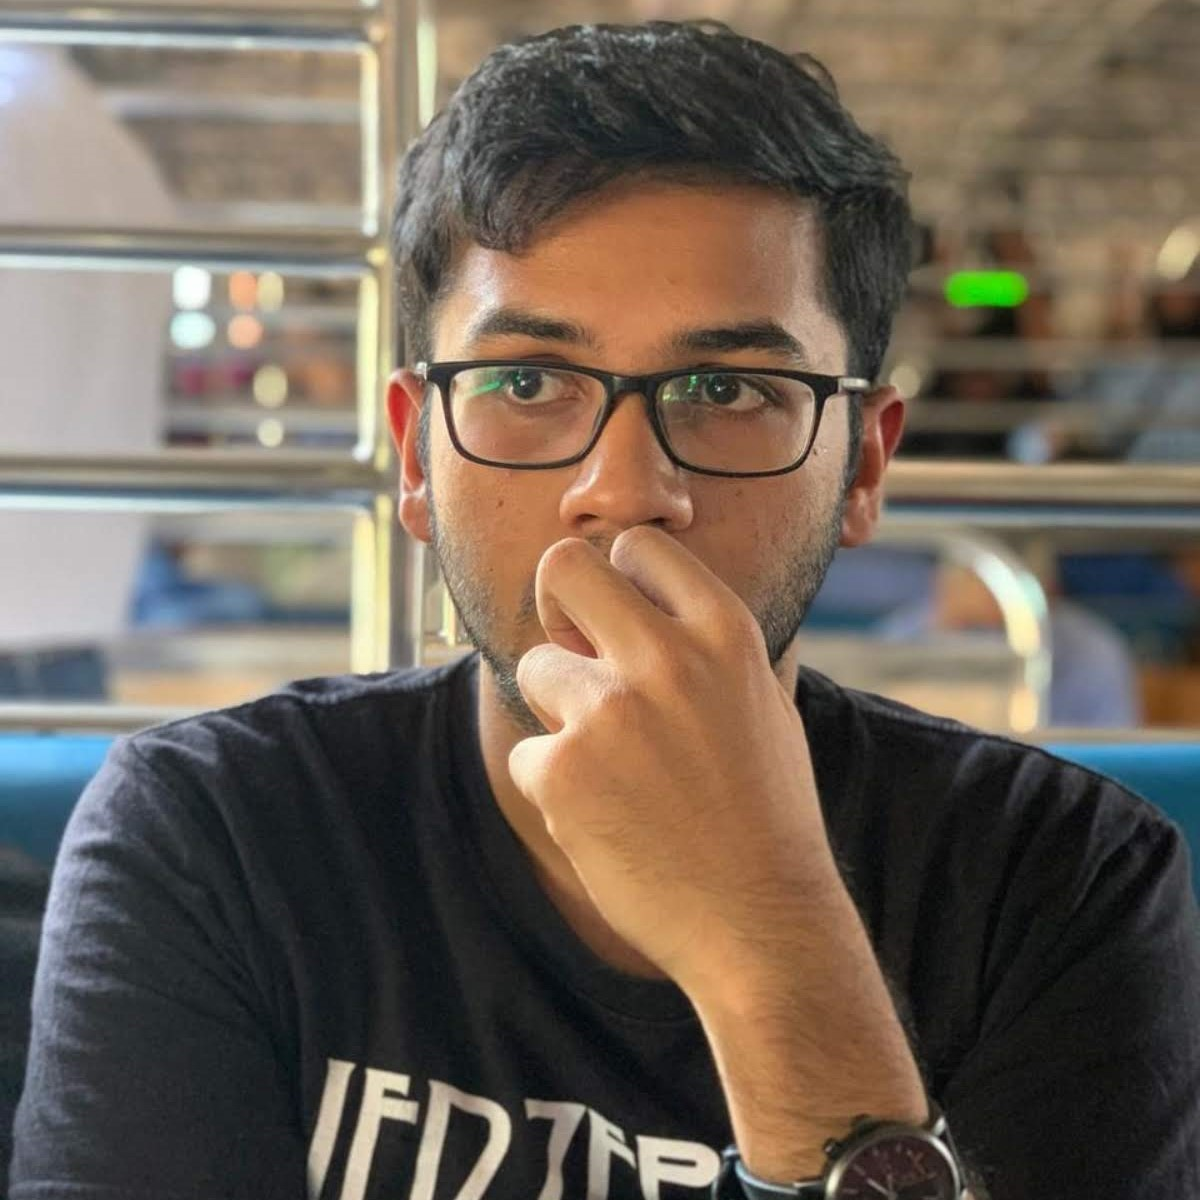
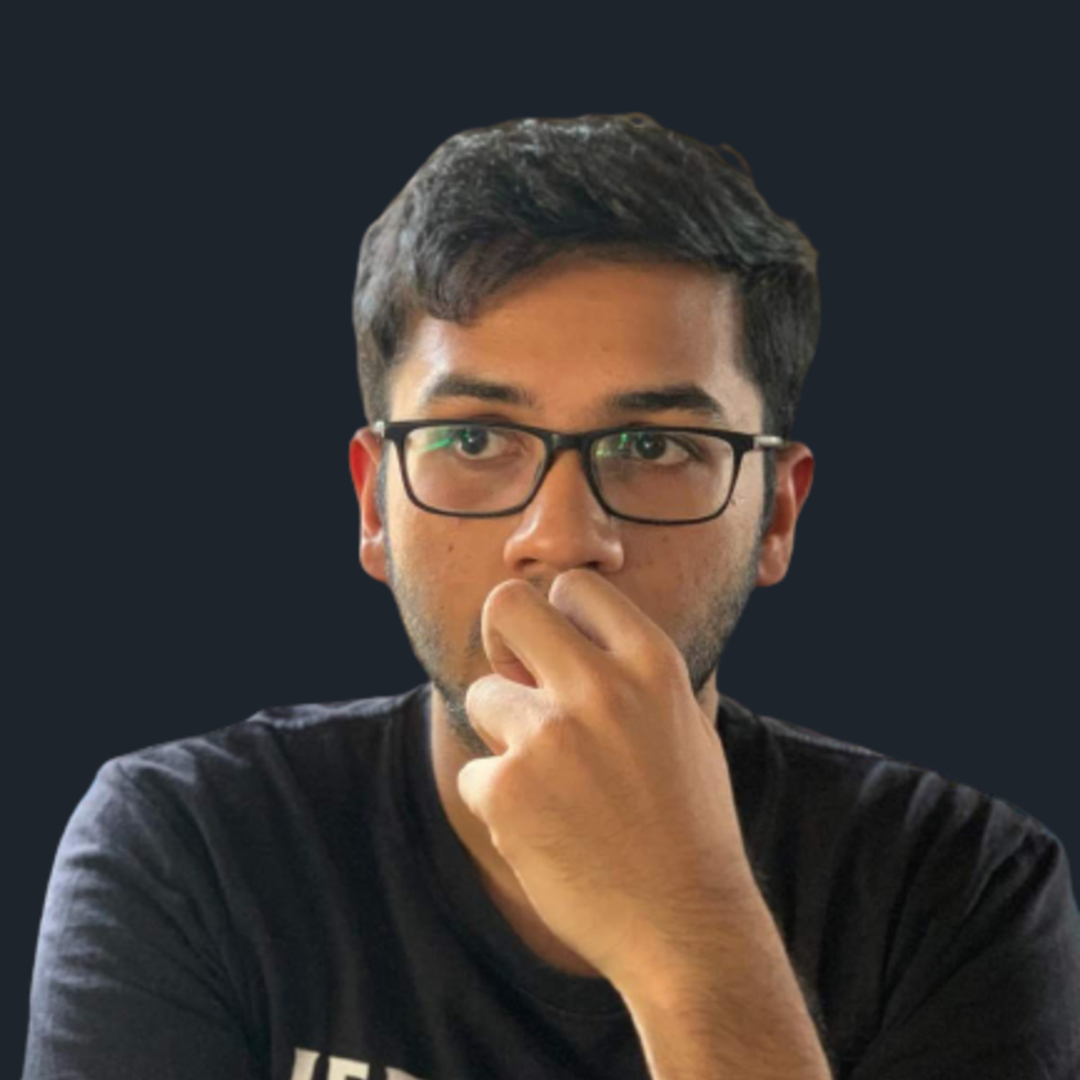
Changed main image

diff --git a/assets/css/main.css b/assets/css/main.css
@@ -2599,7 +2599,7 @@ input, select, textarea {
 		}
 
 		#img1{
-			border-radius: 50%;
+			border-radius: 0%;
 		}
 
 		.image.left, .image.right {
